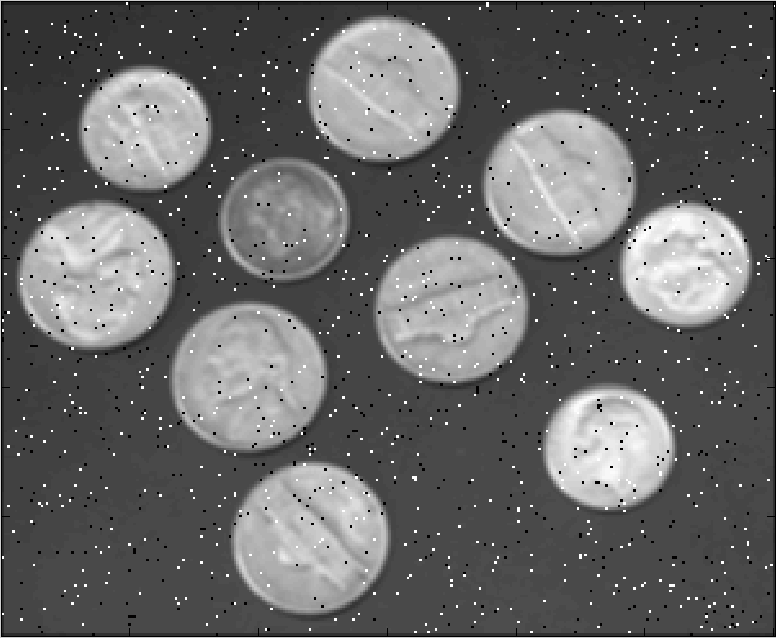
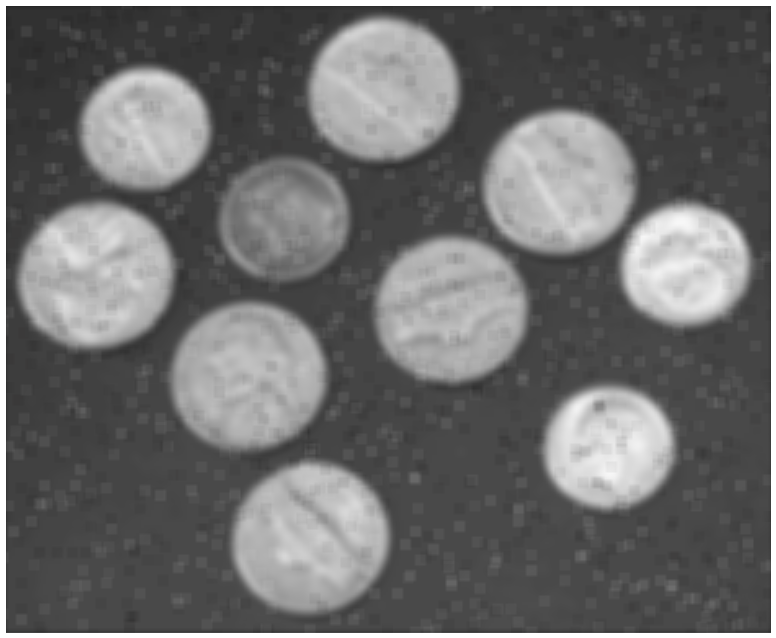
one thread

diff --git a/src/index.js b/src/index.js
@@ -21,13 +21,26 @@ getPixels('./public/src-images/distorted.png', 'image/png', (err, pixels) => {
             matrixX = pixels.shape[1],
             channels = pixels.shape[2];
 
+        const n = 5;
+
         for (let y = 0; y < matrixY; y++) {
             for (let x = 0; x < matrixX; x++) {
-                for (let z = 0; z < channels; z++) {
-                    processedPixelsArr.set(y, x, z, pixels.get(y, x, z));
+                if (y > n && y < matrixY - n && x > n && x < matrixX - n) {
+                    for (let z = 0; z < channels; z++) {
+                        debugger;
+                        var valueSum = 0;
+                        for (let i = y - n; i <= y + n; i++) {
+                            for (let j = x - n; j <= x + n; j++) {
+                                valueSum += pixels.get(i, j, z);
+                            }
+                        }
+                        processedPixelsArr.set(y, x, z, valueSum / ((2 * n + 1) * (2 * n + 1)));
+                      
+                    }
                 }
             }
         }
+
         const buffer = fs.createWriteStream(
             './public/processed-images/res.png'
         );
